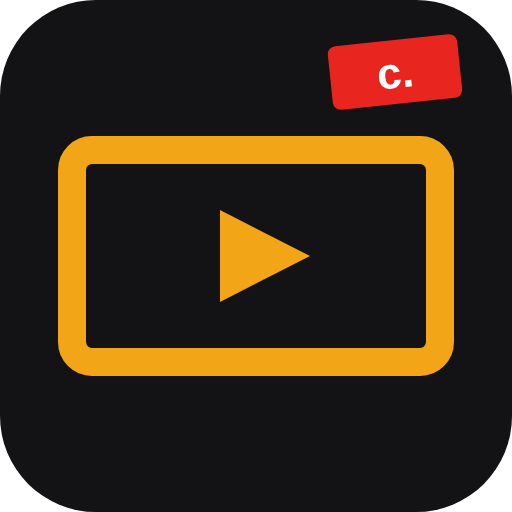
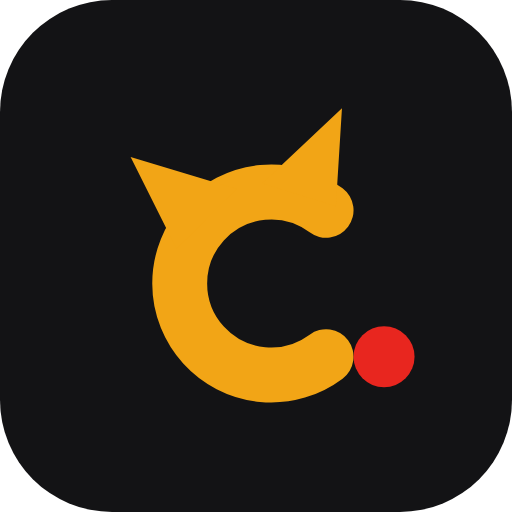
editor-creat: identidade creat.PULO no site (isotipo do c. com orelhas, ícones do app, 'Pula o óbvio.' no login, nome e manifesto); aceite D 18/18
Claude-Session: https://claude.ai/code/session_01LA2wrNjEtSXgcrvSrShhDV

diff --git a/projetos/editor-creat/apps/web/app/entrar/page.tsx b/projetos/editor-creat/apps/web/app/entrar/page.tsx
@@ -1,6 +1,7 @@
 import { redirect } from 'next/navigation';
 import { configuracaoPronta, temSessao } from '@/lib/sessao';
 import FormEntrar from '@/componentes/FormEntrar';
+import Iso from '@/componentes/Iso';
 
 export const dynamic = 'force-dynamic';
 export const metadata = { title: 'Entrar' };
@@ -14,12 +15,13 @@ export default async function Entrar() {
         <div style={{ display: 'flex', alignItems: 'center', gap: 10 }}>
           <img className="topo__logo logo-claro" src="/marca/logo_creatMTT_claro.png" alt="creat.MTT" width={128} height={22} />
           <img className="topo__logo logo-escuro" src="/marca/logo_creatMTT_escuro.png" alt="creat.MTT" width={128} height={22} />
-          <span className="topo__aba" aria-hidden="true">c.</span>
+          <span className="topo__pulo" aria-hidden="true">pulo</span>
         </div>
         <div>
           <p className="entrar__tc" aria-hidden="true">00:00:00:00 / 30:00</p>
-          <h1 className="entrar__titulo">Ilha de <em>edição</em></h1>
-          <p className="aviso" style={{ marginTop: 12 }}>Sobe o material, manda o pedido, recebe o vídeo pronto em até 30 minutos.</p>
+          <div className="entrar__iso"><Iso tamanho={92} titulo="creat.PULO" /></div>
+          <h1 className="entrar__titulo">Pula o <em>óbvio.</em></h1>
+          <p className="aviso" style={{ marginTop: 12 }}>O editor da creat.MTT. Você sobe o material e fala o pedido. Ele devolve o filme com pulo do gato em até 30 minutos.</p>
         </div>
         {conf.ok ? (
           <FormEntrar />

diff --git a/projetos/editor-creat/apps/web/app/globals.css b/projetos/editor-creat/apps/web/app/globals.css
@@ -97,6 +97,16 @@ button, input, select, textarea { font: inherit; color: inherit; }
   background: var(--cor-aba); color: #fff; padding: 5px 7px 4px; border-radius: 3px;
   transform: rotate(-3deg);
 }
+.iso { color: var(--cor-ambar); flex: 0 0 auto; display: block; }
+.iso__ponto { fill: var(--cor-aba); }
+.topo__pulo { display: inline-flex; align-items: center; gap: 6px; font: 900 17px/1 var(--fonte-marca); letter-spacing: -0.03em; color: var(--cor-aba); text-transform: lowercase; }
+.entrar__iso { margin-bottom: var(--r3); }
+@media (prefers-reduced-motion: no-preference) {
+  .entrar__iso .iso { animation: pulo 2.6s var(--curva-entrada) infinite; transform-origin: 50% 100%; }
+  .entrar__iso .iso__ponto { animation: ponto 2.6s linear infinite; }
+}
+@keyframes pulo { 0%, 58%, 100% { transform: translateY(0) rotate(0); } 12% { transform: translateY(2px) scaleY(0.94); } 30% { transform: translateY(-16px) rotate(-7deg); } 46% { transform: translateY(0) scaleY(0.97); } }
+@keyframes ponto { 0%, 40%, 100% { opacity: 1; } 46%, 52% { opacity: 0.35; } }
 .topo__nav { margin-left: auto; display: flex; align-items: center; gap: var(--r1); }
 
 /* ---------- botões e campos ---------- */

diff --git a/projetos/editor-creat/apps/web/componentes/Topo.tsx b/projetos/editor-creat/apps/web/componentes/Topo.tsx
@@ -1,12 +1,13 @@
 import Link from 'next/link';
+import Iso from './Iso';
 
 export default function Topo() {
   return (
     <header className="topo">
-      <Link className="topo__marca" href="/projetos" aria-label="Editor creat.MTT, ir para projetos">
+      <Link className="topo__marca" href="/projetos" aria-label="creat.PULO, ir para projetos">
         <img className="topo__logo logo-claro" src="/marca/logo_creatMTT_claro.png" alt="" width={128} height={22} />
         <img className="topo__logo logo-escuro" src="/marca/logo_creatMTT_escuro.png" alt="" width={128} height={22} />
-        <span className="topo__aba" aria-hidden="true">c.</span>
+        <span className="topo__pulo" aria-hidden="true"><Iso tamanho={26} />pulo</span>
       </Link>
       <nav className="topo__nav" aria-label="Principal">
         <Link className="botao botao--fantasma botao--pequeno" href="/projetos">Projetos</Link>

diff --git a/projetos/editor-creat/apps/web/app/layout.tsx b/projetos/editor-creat/apps/web/app/layout.tsx
@@ -2,11 +2,11 @@ import type { Metadata, Viewport } from 'next';
 import './globals.css';
 
 export const metadata: Metadata = {
-  title: { default: 'Editor creat.MTT', template: '%s · Editor creat.MTT' },
-  description: 'Sobe o material, manda o pedido, recebe o vídeo pronto em até 30 minutos.',
+  title: { default: 'creat.PULO', template: '%s · creat.PULO' },
+  description: 'O editor da creat.MTT. Sobe o material, fala o pedido, recebe o filme com pulo do gato em até 30 minutos.',
   manifest: '/manifest.webmanifest',
   icons: { icon: '/icone.svg', apple: '/icone-192.png' },
-  appleWebApp: { capable: true, title: 'Editor', statusBarStyle: 'black-translucent' },
+  appleWebApp: { capable: true, title: 'PULO', statusBarStyle: 'black-translucent' },
   robots: { index: false, follow: false },
 };
 

diff --git a/projetos/editor-creat/apps/web/componentes/Iso.tsx b/projetos/editor-creat/apps/web/componentes/Iso.tsx
@@ -1,0 +1,10 @@
+// Isotipo do creat.PULO: o "c." da creat com orelhas. O c é o gato, o ponto vermelho é o ponto da marca (e o que ele pula).
+export default function Iso({ tamanho = 28, titulo }: { tamanho?: number; titulo?: string }) {
+  return (
+    <svg className="iso" width={tamanho} height={tamanho} viewBox="-6 -4 132 128" role={titulo ? 'img' : undefined} aria-label={titulo} aria-hidden={titulo ? undefined : true}>
+      <path d="M82 46 A30 30 0 1 0 82 94" fill="none" stroke="currentColor" strokeWidth="18" strokeLinecap="round" />
+      <path fill="currentColor" d="M52.7 39 L33 58.7 L17.9 28.5Z M85.2 44.7 L61.1 37.1 L87.2 12.5Z" />
+      <circle className="iso__ponto" cx="101" cy="94" r="10" />
+    </svg>
+  );
+}

diff --git a/projetos/editor-creat/apps/web/app/projetos/page.tsx b/projetos/editor-creat/apps/web/app/projetos/page.tsx
@@ -11,7 +11,7 @@ export default async function Projetos() {
     <main className="pagina">
       <div className="cabeca-pagina">
         <div>
-          <p className="sobretitulo">Ilha de edição</p>
+          <p className="sobretitulo">creat.PULO · ilha de edição</p>
           <h1 className="titulo">Projetos</h1>
         </div>
         <Link className="botao botao--principal" href="/projetos/novo">Novo projeto</Link>
